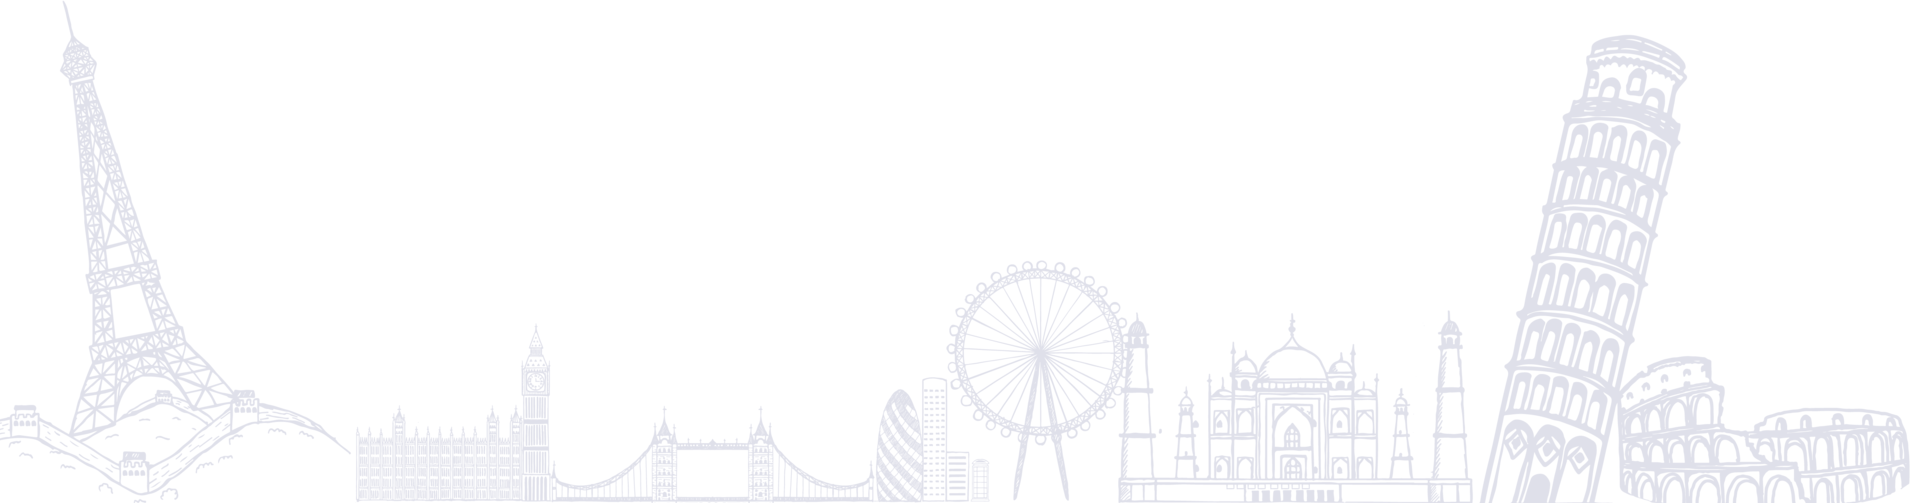
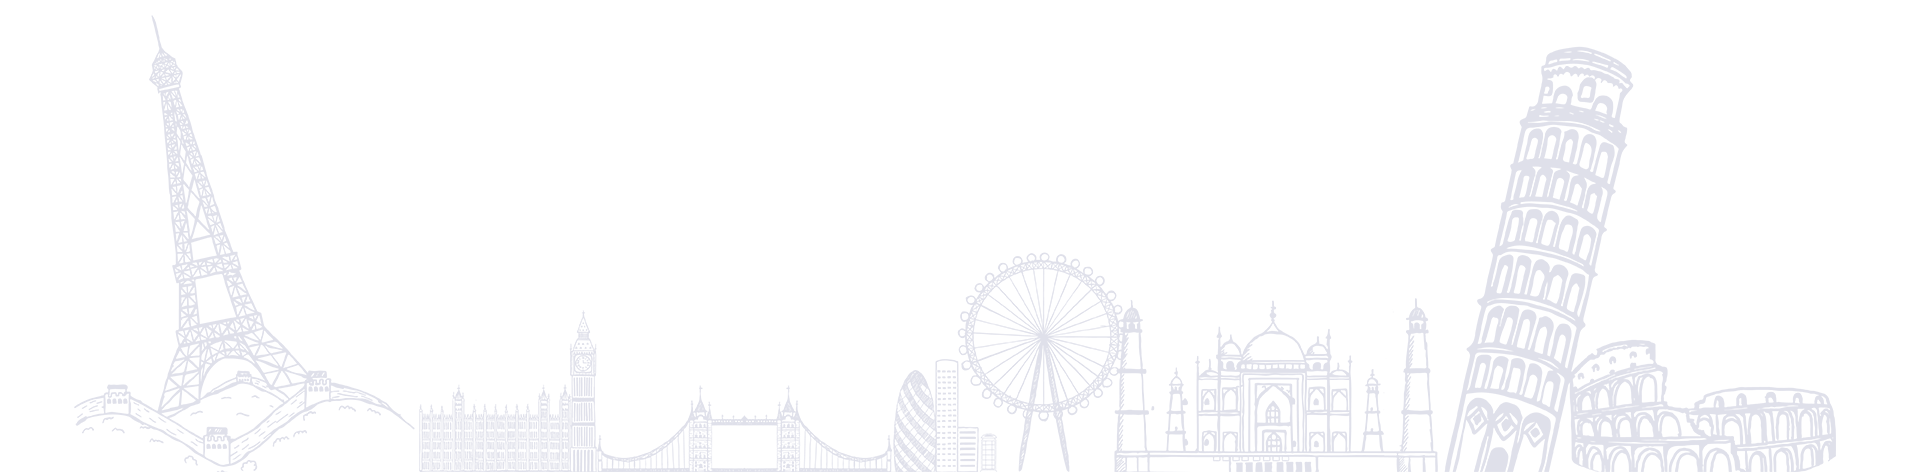
new img added

diff --git a/index.html b/index.html
@@ -68,7 +68,7 @@
       <div class="row text-center aboutus-heading">
         <div class="col-sm-12">
             <h2 class="color-orange">Have you ever thought of one stop retailer for all your business needs?</h2>
-            <p class="color-dark-blue">Yes, you have reached the right place!</p>
+            <p class="color-dark-blue font-bold"><span class="color-orange">Yes,</span> you have reached the right place.</p>
         </div>
       </div>
       <div class="row about-text text-center">
@@ -94,8 +94,8 @@
         </p>
         <div class="service-details">
           <p>We offer the following services to initiate your potential business idea - </p>
-						<span class="checkmark">&#x2714</span> Market Research & Analysis
-						<br/><span class="checkmark">&#x2714</span> Process Standardization<br/>
+						<span class="checkmark">&#8226</span> Market Research & Analysis
+						<br/><span class="checkmark">&#8226</span> Process Standardization<br/>
         </div>
         <!-- <button type="button" class="submit-btn btn btn-outline-primary know-more-btn" data-toggle="modal" data-target="#service-1">
           Know More
@@ -114,9 +114,9 @@
         </p>
         <div class="service-details">
           <p>We offer the following services to strategize your potential business idea - </p>
-          <span class="checkmark">&#x2714</span> Marketing Strategy
-          <br/><span class="checkmark">&#x2714</span> Competetor Analysis
-          <br/><span class="checkmark">&#x2714</span> Growth Strategy
+          <span class="checkmark">&#8226</span> Marketing Strategy
+          <br/><span class="checkmark">&#8226</span> Competetor Analysis
+          <br/><span class="checkmark">&#8226</span> Growth Strategy
           <br/>
         </div>
       </div>
@@ -141,10 +141,10 @@
         </p>
         <div class="service-details">
           <p>We offer the following services to market your potential business idea - </p>
-          <span class="checkmark">&#x2714</span> Digital Marketing
-          <span class="checkmark">&#x2714</span> Print & Publication
-          <br/><span class="checkmark">&#x2714</span> Content Creation
-          <span class="checkmark">&#x2714</span> Branding Material
+          <span class="checkmark">&#8226</span> Digital Marketing
+          <span class="checkmark">&#8226</span> Print & Publication
+          <br/><span class="checkmark">&#8226</span> Content Creation
+          <span class="checkmark">&#8226</span> Branding Material
           <br/>
         </div>
       </div>
@@ -160,8 +160,8 @@
         </p>
         <div class="service-details">
           <p>We offer the following services to maintain accounts for your potential business idea - </p>
-          <span class="checkmark">&#x2714</span> Management Reporting
-          <br/><span class="checkmark">&#x2714</span> CXO Level Report
+          <span class="checkmark">&#8226</span> Management Reporting
+          <br/><span class="checkmark">&#8226</span> CXO Level Report
           <br/>
         </div>
       </div>
@@ -184,10 +184,10 @@
         </p>
         <div class="service-details">
           <p>We offer the following services to digitalize your potential business idea - </p>
-          <span class="checkmark">&#x2714</span>Web Integration
-          <span class="checkmark">&#x2714</span> App Development
-          <br/><span class="checkmark">&#x2714</span> Service Integration
-          <span class="checkmark">&#x2714</span> Automation
+          <span class="checkmark">&#8226</span>Web Integration
+          <span class="checkmark">&#8226</span> App Development
+          <br/><span class="checkmark">&#8226</span> Service Integration
+          <span class="checkmark">&#8226</span> Automation
           <br/>
         </div>
       </div>
@@ -197,18 +197,18 @@
     <div class="row text-center home-7">
       <div class="col-sm-12 col-md-6 section-text text-right">
         <h1 class="font-60 color-orange">Product</h1>
-        <h1 class="font-60 color-dark-blue">Engineering</h1>
+        <h1 class="font-60 color-dark-blue">Consultancy</h1>
         <p>
         We can help your product to gain the extra mileage with strong management and necessary support
         </p>
         <div class="service-details">
           <p>We offer the following services to productionize your potential business idea - </p>
-          <span class="checkmark">&#x2714</span> Productivity Improvement
-          <span class="checkmark">&#x2714</span> Incorporation of Automation
-          <br/><span class="checkmark">&#x2714</span> Vendor Development
-          <span class="checkmark">&#x2714</span> Inventory Management System
-          <br/><span class="checkmark">&#x2714</span> Energy management
-          <span class="checkmark">&#x2714</span> System Controlled Maintenance Management
+          <span class="checkmark">&#8226</span> Productivity Improvement
+          <span class="checkmark">&#8226</span> Incorporation of Automation
+          <br/><span class="checkmark">&#8226</span> Vendor Development
+          <span class="checkmark">&#8226</span> Inventory Management System
+          <br/><span class="checkmark">&#8226</span> Energy management
+          <span class="checkmark">&#8226</span> System Controlled Maintenance Management
           <br/>
         </div>
       </div>
@@ -220,7 +220,7 @@
     <br/>
     <div class="row text-center home-7">
       <div class="col-md-12 color-orange service-endtext">
-        <p>However, <span class="color-dark-blue">our services are not limited to those mentioned. <br/>Reach us for further details.
+        <p class="color-orange">However, <span class="color-dark-blue">our services are not limited to those mentioned. <br/>Reach us for further details.
 
 <span></p>
       </div>
@@ -326,10 +326,10 @@
         <!-- Modal body -->
         <div class="modal-body">
           <p>We offer the following services for your potential business idea - </p>
-						<span class="checkmark">&#x2714</span> Digital Marketing
-						<br/><span class="checkmark">&#x2714</span> Print & Publication
-						<br/><span class="checkmark">&#x2714</span> Content Creation
-						<br/><span class="checkmark">&#x2714</span> Branding Material
+						<span class="checkmark">&#8226</span> Digital Marketing
+						<br/><span class="checkmark">&#8226</span> Print & Publication
+						<br/><span class="checkmark">&#8226</span> Content Creation
+						<br/><span class="checkmark">&#8226</span> Branding Material
             <br/>
         </div>
         
@@ -350,8 +350,8 @@
         <!-- Modal body -->
         <div class="modal-body">
           <p>We offer the following services for your potential business idea - </p>
-						<span class="checkmark">&#x2714</span> Management Reporting
-						<br/><span class="checkmark">&#x2714</span> CXO Level Report
+						<span class="checkmark">&#8226</span> Management Reporting
+						<br/><span class="checkmark">&#8226</span> CXO Level Report
             <br/>
         </div>
         
@@ -372,10 +372,10 @@
         <!-- Modal body -->
         <div class="modal-body">
           <p>We offer the following services for your potential business idea - </p>
-						<span class="checkmark">&#x2714</span>Web Integration
-						<br/><span class="checkmark">&#x2714</span> App Development
-						<br/><span class="checkmark">&#x2714</span> Service Integration
-						<br/><span class="checkmark">&#x2714</span> Automation
+						<span class="checkmark">&#8226</span>Web Integration
+						<br/><span class="checkmark">&#8226</span> App Development
+						<br/><span class="checkmark">&#8226</span> Service Integration
+						<br/><span class="checkmark">&#8226</span> Automation
             <br/>
         </div>
         
@@ -396,12 +396,12 @@
         <!-- Modal body -->
         <div class="modal-body">
           <p>We offer the following services for your potential business idea - </p>
-						<span class="checkmark">&#x2714</span> Productivity Improvement
-						<br/><span class="checkmark">&#x2714</span> Incorporation of Automation
-						<br/><span class="checkmark">&#x2714</span> Inventory Management System
-						<br/><span class="checkmark">&#x2714</span> Vendor Development
-						<br/><span class="checkmark">&#x2714</span> Energy management
-						<br/><span class="checkmark">&#x2714</span> System Controlled Maintenance Management
+						<span class="checkmark">&#8226</span> Productivity Improvement
+						<br/><span class="checkmark">&#8226</span> Incorporation of Automation
+						<br/><span class="checkmark">&#8226</span> Inventory Management System
+						<br/><span class="checkmark">&#8226</span> Vendor Development
+						<br/><span class="checkmark">&#8226</span> Energy management
+						<br/><span class="checkmark">&#8226</span> System Controlled Maintenance Management
             <br/>
         </div>
         

diff --git a/public/css/main.css b/public/css/main.css
@@ -7,6 +7,7 @@ body {
     font-size: 1.5rem;
     margin-top: 7.5rem;
     width: 100%;
+    background: url('../img/bg-01.png') no-repeat !important;
     /*Fix for nav baar*/
 }
 p{
@@ -47,7 +48,7 @@ section{
 
 #home{
     /* background-image: url('../img/bg-01.png'); */
-    background: url('../img/bg-01.png') no-repeat !important;
+    
 }
 
 #contact{
@@ -55,7 +56,9 @@ section{
     background: url('../img/bg-02.png') no-repeat !important;
     margin-bottom: 0 !important;
 }
-
+.font-bold{
+    font-size: 35px;
+}
 /**************************************************************************/
 
 
@@ -107,7 +110,7 @@ nav {
     display: inline-block;
 }
 .brand-logo {
-    width: 100px;
+    width: 25%;
 }
 /* NAV CSS - END */
 
@@ -250,7 +253,8 @@ h6 {
     padding: 20px !important;
 }
 .about-text{
-    font-size: 20px;
+    /*font-size: 20px;*/
+    color: #657687;
 }
 .checkmark{
     color: #fc4a1a;
@@ -302,7 +306,7 @@ h6 {
 
 .icon-default {
     font-size: 3.75rem;
-    color: red;
+    color: #fc4a1a;
 }
 
 .icon-background {
